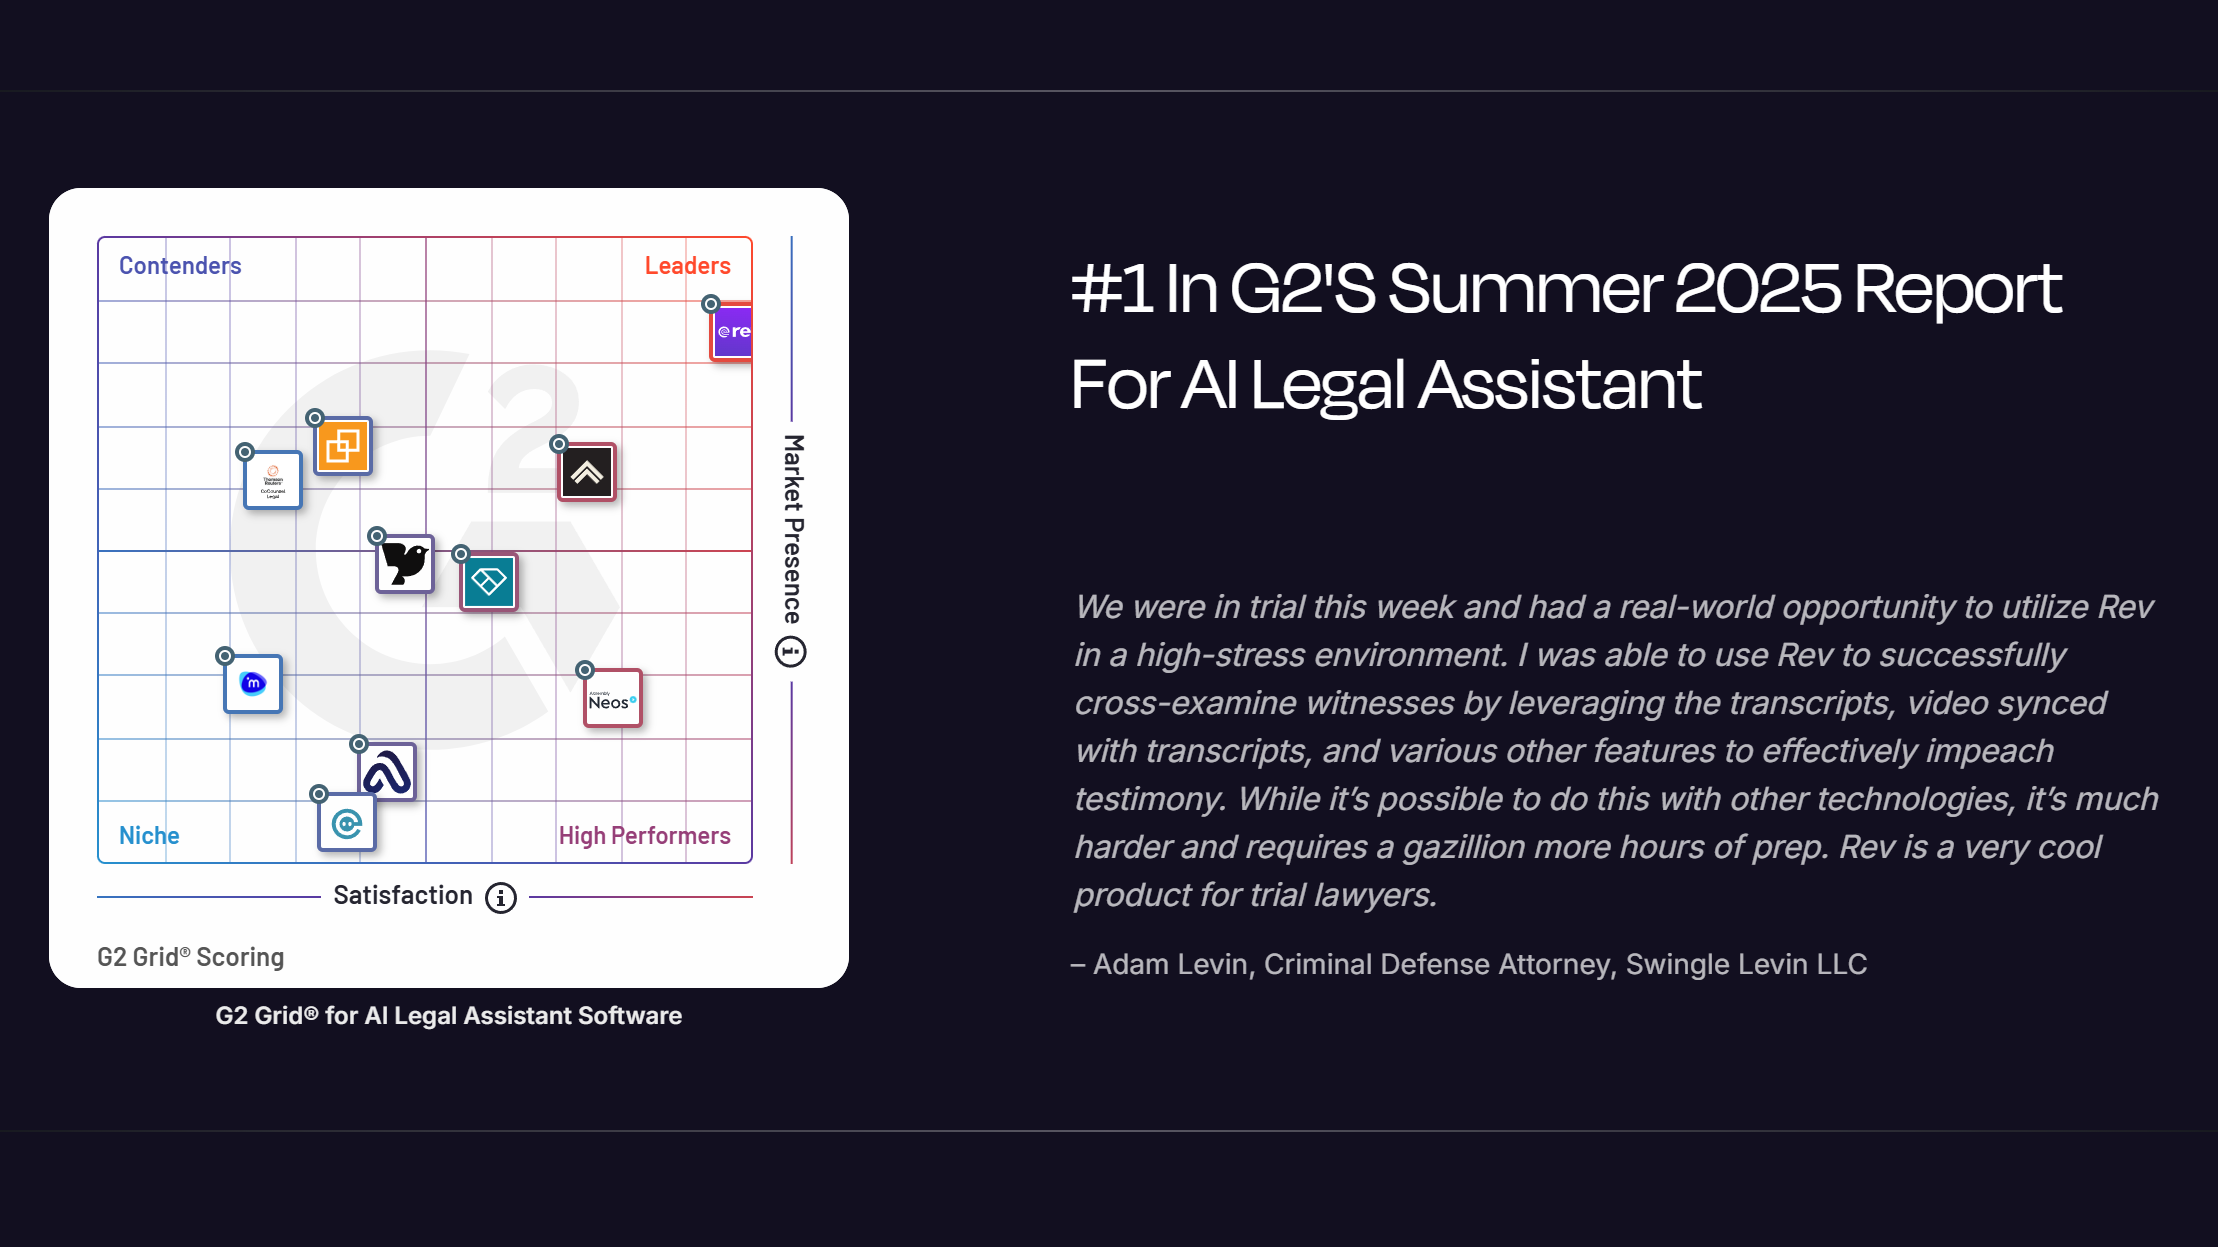
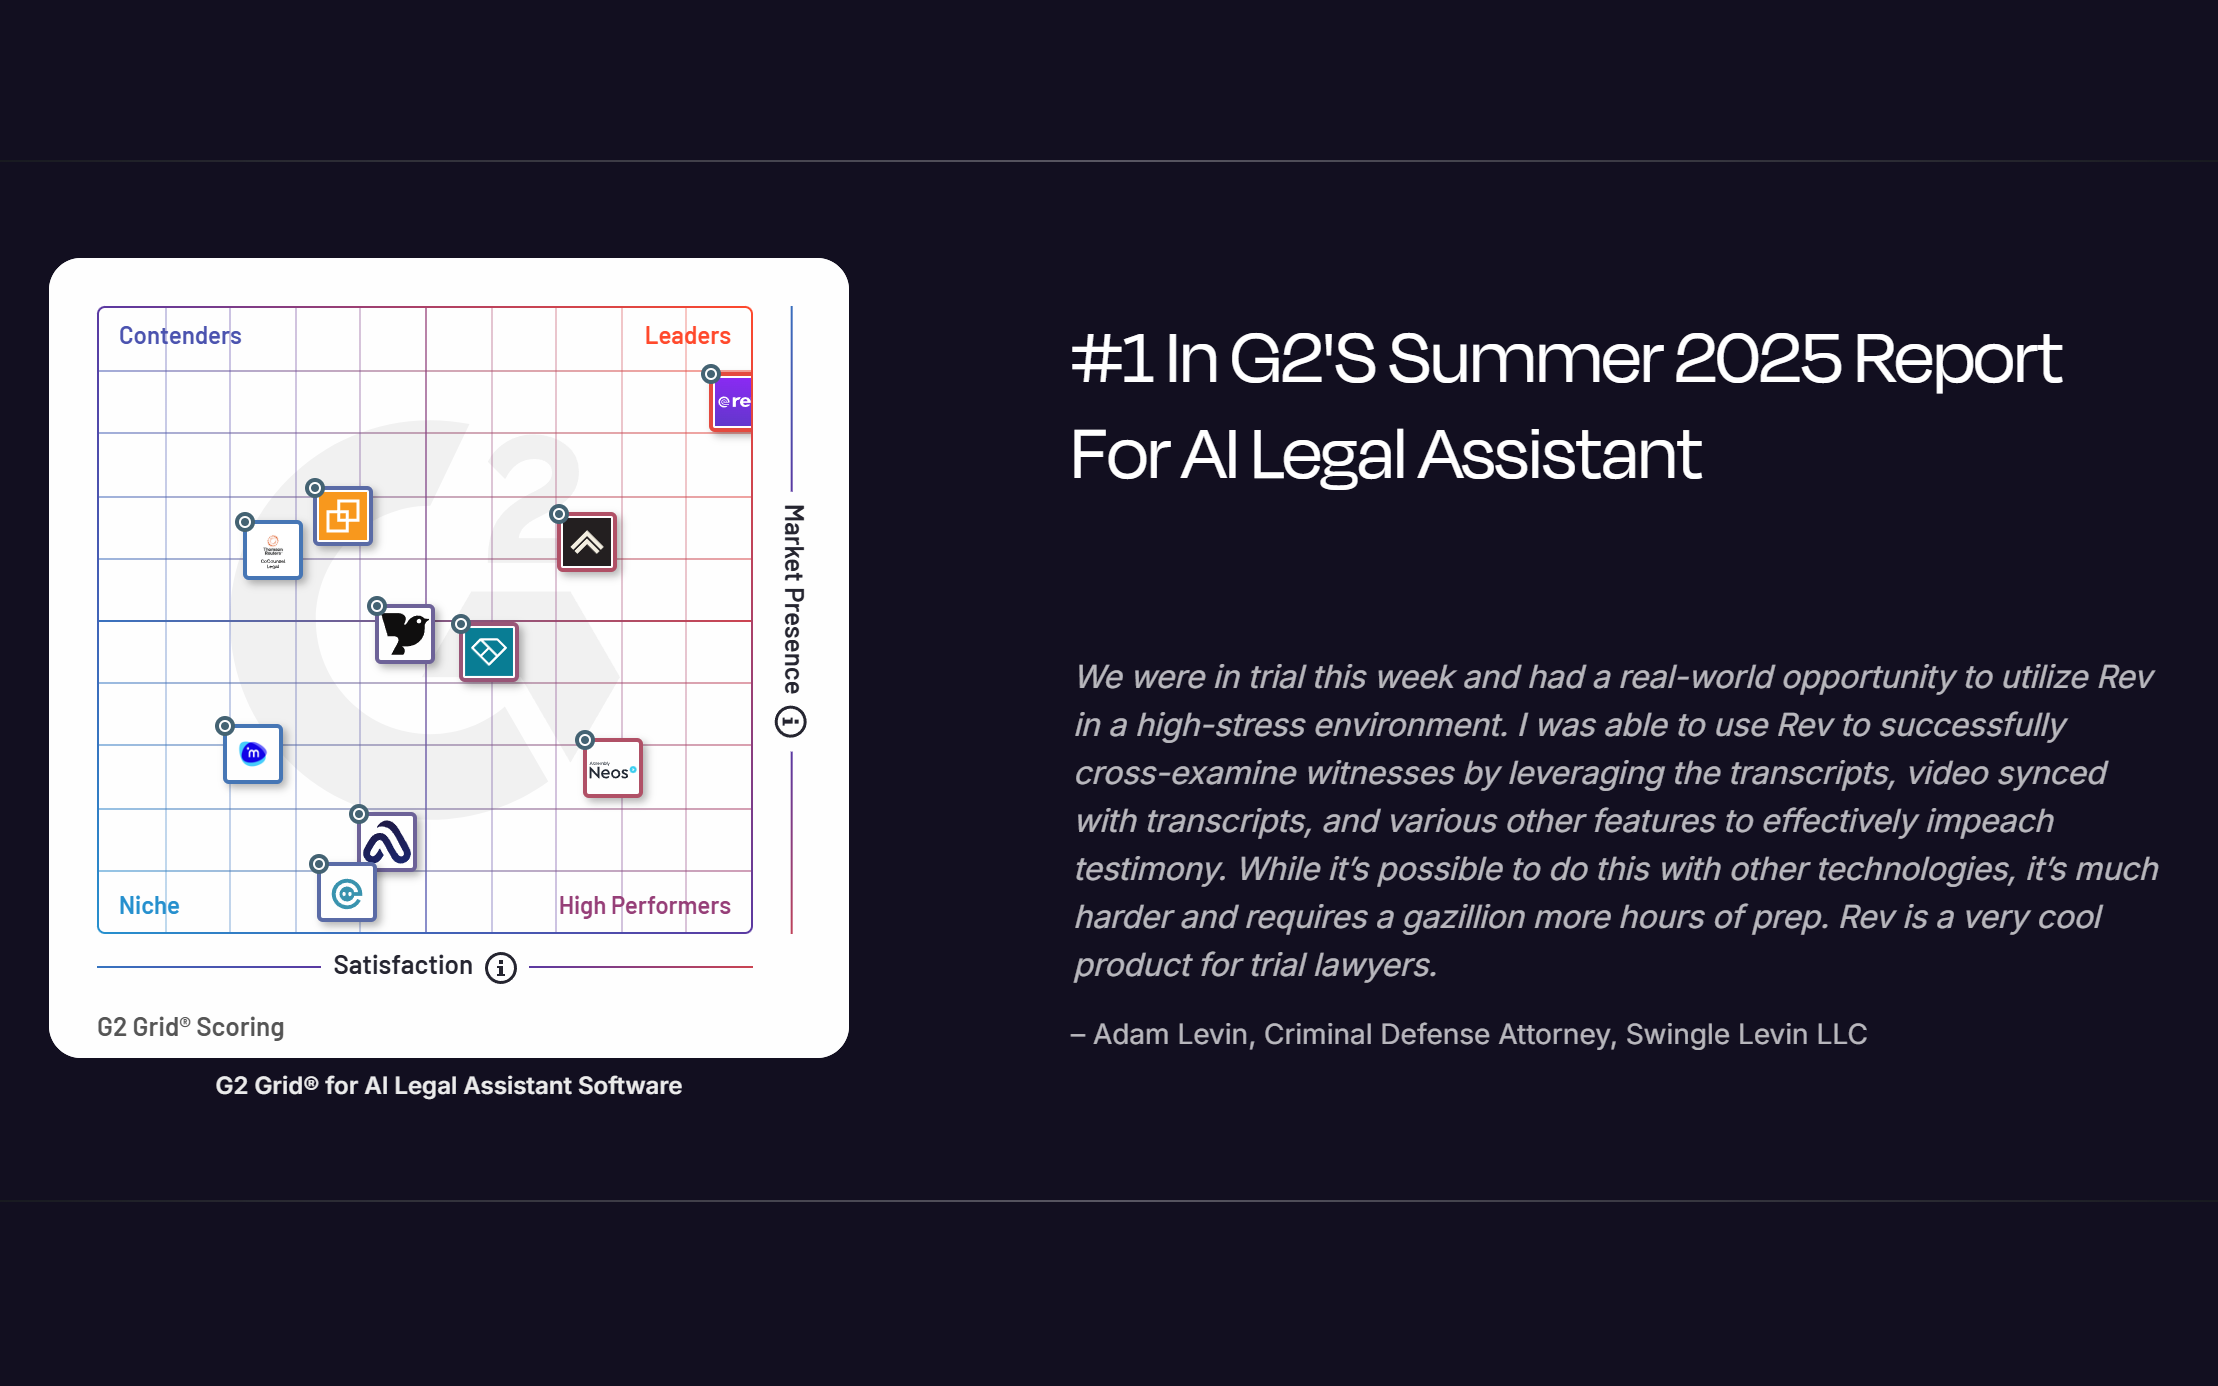
Update Second Nature, Rev, and Cart.com case studies and screenshots
- Second Nature: add clean home-hero screenshot, clarify 2x velocity vs. teams using Claude Code only for implementation across full-lifecycle AI pilot
- Rev: expand Legal AI write-up, G2 stats/quote/slides, add current rev.com legal home page screenshot, drop leadership page slide
- Cart.com: add 2022 hero, stats, and order management slides

diff --git a/src/content/work/rev-legal-ai.md b/src/content/work/rev-legal-ai.md
@@ -3,31 +3,58 @@ title: Legal AI at Rev
 kind: work
 order: 5
 kicker: "Engineering for the #1-ranked AI legal assistant"
-summary: As VP of Software Development, I led the engineering organization behind Rev’s legal AI assistant, an LLM product built with RAG and multi-agent workflows on top of Rev’s speech-to-text.
+summary: As VP of Software Development, I led the engineering organization behind Rev’s legal AI assistant, an LLM product built with RAG and multi-agent workflows on top of Rev’s speech-to-text. In Summer 2025, G2 named it the Leader in AI Legal Assistant software.
 years: 2024 – 2026
 role: VP of Software Development
 stack: [LLMs, RAG, Multi-agent systems, Speech-to-text]
-cover: ../../assets/shots/rev/g2-leader.png
-coverAlt: Rev’s legal page announcing it was number one in G2’s Summer 2025 report for AI Legal Assistant, with the G2 Grid.
+cover: ../../assets/shots/rev/rev-legal-home.png
+coverAlt: "Rev’s home page: “Put Rev To Work On Your Whole Case,” #1 in legal transcription accuracy, with SOC 2 Type II, HIPAA, and CJIS compliance badges and a cited legal AI workspace preview."
 frameUrl: https://www.rev.com/
 slides:
-  - { src: ../../assets/shots/rev/g2-leader.png, path: "", caption: "#1 in G2’s Summer 2025 report for AI Legal Assistant", alt: "Rev’s page announcing number one in G2’s Summer 2025 report for AI Legal Assistant, with Rev alone at the top right of the G2 Grid’s Leaders quadrant and a trial lawyer’s review." }
-  - { src: ../../assets/shots/rev/about-vp.png, path: "", caption: "Rev’s leadership page: VP Development", alt: "Rev’s About page leadership grid with Michael Lane, VP Development, between the VP of Marketing and the VP of AI and R&D." }
+  - { src: ../../assets/shots/rev/rev-legal-home.png, path: "", caption: "Rev’s home page: #1 in legal transcription accuracy, trusted by 2,000+ law firms & agencies", alt: "Rev’s home page reading Put Rev To Work On Your Whole Case, highlighting investigative AI tools across body cam footage, jail calls, depositions, reports, PDFs and photos, with SOC 2 Type II, HIPAA and CJIS compliance badges and law firm partners." }
+  - { src: ../../assets/shots/rev/g2-category-leader.png, path: "", caption: "G2, September 2025: Leader, Easiest to Use and Top Trending, out of 77", alt: "G2’s Best AI Legal Assistant Software page. At a glance: Leader, Rev. Easiest to Use, Rev. Top Trending, Rev. 77 listings in the category." }
+  - { src: ../../assets/shots/rev/g2-rev-badges.png, path: "", caption: "Rev on G2, Fall 2025: six badges, 4.7 out of 5 from 557 reviews", alt: "Rev’s G2 product page with Fall 2025 badges for Leader, High Performer Enterprise, Users Love Us, Best Support Enterprise, Fastest Implementation and Momentum Leader, and a 4.7 out of 5 rating from 557 reviews." }
+  - { src: ../../assets/shots/rev/g2-leader.png, path: "", caption: "Rev’s own page: #1 in G2’s Summer 2025 report", alt: "Rev’s page announcing number one in G2’s Summer 2025 report for AI Legal Assistant, with Rev alone at the top right of the G2 Grid’s Leaders quadrant and a trial lawyer’s review." }
 links:
   - { label: rev.com, url: "https://www.rev.com" }
+  - { label: "G2: AI Legal Assistant", url: "https://www.g2.com/categories/ai-legal-assistant", short: G2 }
 stats:
-  - { n: "#1", label: "G2 leader, AI Legal Assistant, Summer 2025" }
+  - { n: "#1", label: "G2 Leader, AI Legal Assistant, Summer 2025" }
   - { n: "60", label: "people across product engineering, AI, R&D and design" }
+  - { n: "77", label: "products in the category we led" }
+  - { n: "4.7", label: "out of 5 on G2, from 557 reviews" }
+quote:
+  text: "Rev is a very cool product for trial lawyers."
+  by: Adam Levin, criminal defense attorney, in a review Rev featured on its legal page
 ---
 
-## The work
+## Find what wins your case
+
+That was Rev's promise to lawyers, in four words. Their pitch went on: long hearings, dozens of calls, hours of interviews. Legal teams were drowning in recordings, and Rev's job was to turn them into evidence they could search, cite and use in court. On G2, Rev put it even shorter: "Cut hours of review down to minutes."
 
 Rev built its business on accurate transcription. The legal assistant builds on top of it, applying LLMs to the recordings and transcripts legal teams already work with. My job was to lead the organization that built it: set technical direction, structure the teams, and make delivery predictable while the technology changed under us month to month.
 
+## Every stage of a case
+
+Rev's own headline for the product was "Making every stage of your case more efficient." In their words, and in the order a case happens:
+
+- **Case intake and consultation:** tailored prompts that surface the key patterns in an interview "without compromising the original record," because in legal, nuance is everything.
+- **Depositions, investigations and discovery:** upload testimony and interviews, and AI insights "surface contradictions and key statements across multiple files."
+- **Multi-File Case Intelligence:** audio depositions, video interviews, written records and documents in one searchable workspace, flagging discrepancies across every format.
+- **Motions and pre-trial:** summaries of testimony, with key evidence clipped and shared straight from the transcript.
+- **Trial:** real-time transcription in the courtroom, so a lawyer can cross-examine and impeach a witness without missing a word.
+
+Their tagline for all of it: "Transcribe, cite, win."
+
 ## How I led it
 
-- **Reliability first.** In legal work a confident wrong answer is worse than no answer. Retrieval, evaluation and guardrails were treated as product features, not afterthoughts.
+- **Reliability first.** In legal work a confident wrong answer is worse than no answer. Retrieval, evaluation and guardrails were treated as product features, not afterthoughts. Every answer had to point back to the source.
+- **Secure by default.** Evidence is the most sensitive data a firm holds. The product shipped SOC 2 audited, GDPR and PCI compliant, with no third-party data sharing.
 - **Clarity and ownership.** Engineers knew what we were building, why, and who owned what, so they could move with urgency.
 - **Applied AI that earns its place.** We used LLMs, retrieval and agent workflows where they made the product measurably better, not because they were available.
 
-In Summer 2025, G2 ranked Rev the #1 leader in its AI Legal Assistant category, based on customer reviews.
+## Number one
+
+In Summer 2025, G2 ranked Rev the number one Leader in AI Legal Assistant software, ahead of 76 other products, based entirely on customer reviews. G2's own category page named Rev the Leader, the Easiest to Use and the Top Trending product, all three, and is blunt about how it ranks: "We do not allow paid placements."
+
+By Fall 2025, Rev held six G2 badges, including Leader and Momentum Leader, and a 4.7 out of 5 from 557 reviews. Rankings like that come from lawyers using the product every day, in hearings and depositions, and telling other lawyers it works.

diff --git a/src/content/work/second-nature-software-factory.md b/src/content/work/second-nature-software-factory.md
@@ -7,8 +7,13 @@ summary: As Director of Software Development, I made the case and architected th
 years: 2026 – Present
 role: Director of Software Development
 stack: [Claude Code, ast-grep, Modal sandboxes, SOC 2 Type 2, Node.js, AWS]
+cover: ../../assets/shots/second-nature/home-hero.png
+coverAlt: Second Nature’s Resident Experience Platform home page, “The only platform that personalizes renting for every resident,” highlighting Resident Onboarding and the Resident Benefits Package.
+frameUrl: https://www.secondnature.com/
+links:
+  - { label: secondnature.com, url: "https://www.secondnature.com" }
 stats:
-  - { n: "2x", label: "points per engineer in pilot pods" }
+  - { n: "2x", label: "points per engineer vs. teams using Claude Code only for implementation" }
   - { n: "~50%", label: "projected reduction in all-in cost per point" }
   - { n: "2 days", label: "to ship production tool vs 6-week estimate" }
   - { n: "22", label: "engineers and QA across three resident-facing teams" }
@@ -32,6 +37,6 @@ Instead of asking humans to inspect every line of generated diffs, the factory m
 
 ## The proof
 
-We proved the model first with our pilot team: two engineers delivering 2x the velocity per engineer of median teams, with engineer engagement scores reaching 92–94% against an org baseline of 84–87%.
+We proved the model first with a two-engineer pilot. Other teams were already using Claude Code for implementation; the experiment was to integrate AI across the full lifecycle—planning, scoping, refinement, and testing—instead of stopping at code generation. That pilot pod delivered 2x the velocity per engineer of median teams using Claude Code just for implementation, with engineer engagement scores reaching 92–94% against an org baseline of 84–87%.
 
 In my own work, I shipped a production internal tool with every line written by orchestrated agents under my direction in two days and a night against a six-week estimate for a full team—in active daily use across the company since.

diff --git a/src/content/work/cart-core-services.md b/src/content/work/cart-core-services.md
@@ -7,6 +7,13 @@ summary: Cart.com grew by buying companies, and every one of them came with its 
 years: 2022 – 2023
 role: Director of Engineering, Core Services
 stack: [Auth0, Okta, Kafka, Event-driven microservices, Google Cloud]
+cover: ../../assets/shots/cart/cart-home-2022-hero.png
+coverAlt: Cart.com's 2022 home page, "Where brands go to grow," with six columns for its services.
+frameUrl: https://www.cart.com/
+slides:
+  - { src: ../../assets/shots/cart/cart-home-2022-hero.png, path: "", caption: "2022: six services under one name, each with its own login", alt: "Cart.com's 2022 home page: Where brands go to grow, with six columns for Storefront, Growth Marketing, Channel Management, Fulfillment, Customer Engagement and Unified Analytics, and a strip of brands trusted by over 6,000." }
+  - { src: ../../assets/shots/cart/cart-home-2022-stats.png, path: "", caption: "6,000 brands, 41 million orders a year", alt: "Cart.com's 2022 stats: 6k+ brands, 20k+ online stores, 142M+ products, 2k+ advertising channels, 22M+ daily repricing events, 41M+ orders a year, 3.5M+ square feet of fulfillment space and $3B+ annual GMV." }
+  - { src: ../../assets/shots/cart/cart-fulfillment-2022-order-management.png, path: "/solution/fulfillment", caption: "Every order, tracked from start to finish", alt: "Cart.com's order management section: automate order management to deliver with accuracy, with an order summary illustration." }
 stats:
   - { n: "6", label: "acquired companies behind one login" }
   - { n: "1", label: "customer portal: Brand HQ" }
